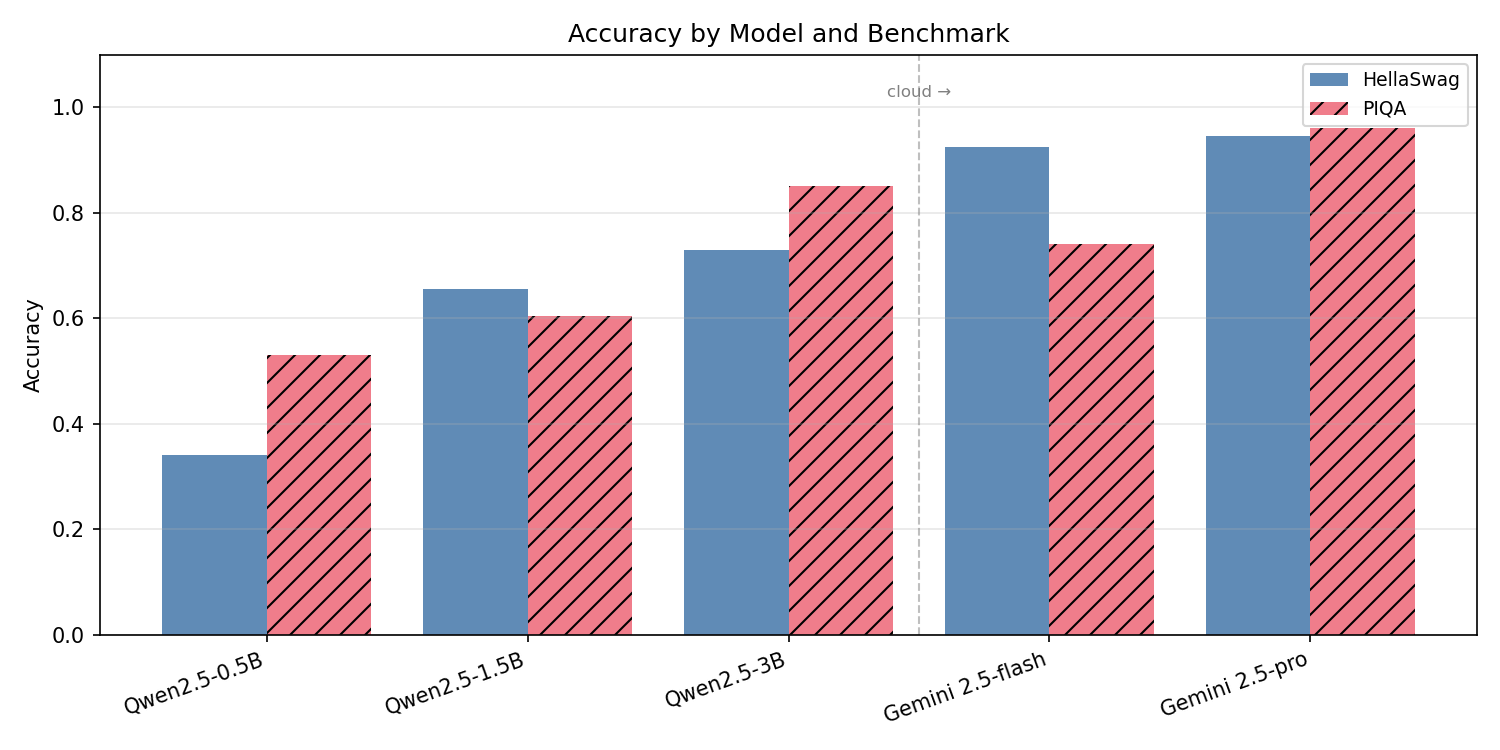
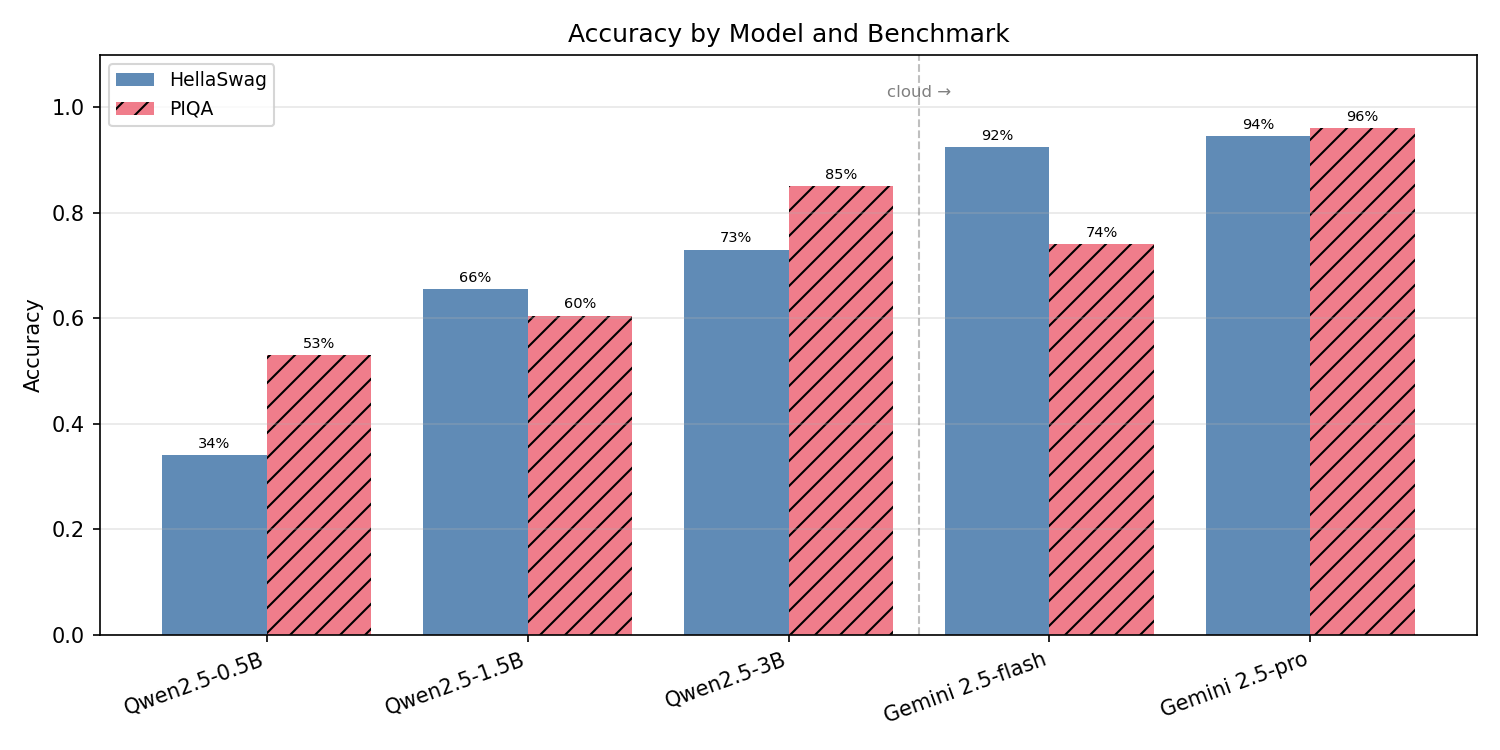
Improve graphs

diff --git a/src/plots.py b/src/plots.py
@@ -82,11 +82,12 @@ def plot_accuracy(df: pd.DataFrame, out_dir: Path) -> Path:
             continue
         vals = [float(acc.loc[m, bm]) if m in acc.index else float("nan")
                 for m in all_models]
-        ax.bar(
+        bars = ax.bar(
             x + offsets[i], vals, width,
             label=BENCH_LABELS[bm],
             color=bench_colors[bm], hatch=bench_hatches[bm], alpha=0.85,
         )
+        ax.bar_label(bars, fmt=lambda v: f"{v:.0%}", fontsize=7, padding=2)
 
     # Vertical divider between local and cloud
     if local_order and cloud_order:
@@ -159,20 +160,20 @@ def plot_accuracy_vs_latency(df: pd.DataFrame, out_dir: Path) -> Path:
 # Plot 3 — Energy per query (estimated), one bar per model
 # ---------------------------------------------------------------------------
 
-def plot_energy(df: pd.DataFrame, out_dir: Path) -> Path:
+def plot_co2(df: pd.DataFrame, out_dir: Path) -> Path:
     agg = (
-        df.groupby(["model", "model_type"])["energy_kwh_per_query"]
+        df.groupby(["model", "model_type"])["emissions_g_per_query"]
         .mean()
         .reset_index()
     )
-    agg = agg[agg["energy_kwh_per_query"].apply(
-        lambda v: not (v != v) and not math.isnan(float(v))  # drop NaN
+    agg = agg[agg["emissions_g_per_query"].apply(
+        lambda v: not math.isnan(float(v))
     )].copy()
 
     if agg.empty:
         fig, ax = plt.subplots(figsize=(8, 4))
-        ax.set_title("Energy per query (estimated) — no data yet")
-        path = out_dir / "plot3_energy.png"
+        ax.set_title("CO2 per query (estimated) — no data yet")
+        path = out_dir / "plot3_co2.png"
         fig.savefig(path, dpi=150)
         plt.close(fig)
         return path
@@ -186,16 +187,17 @@ def plot_energy(df: pd.DataFrame, out_dir: Path) -> Path:
     order = [m for m in local_order if m in agg["model"].values] + \
             [m for m in cloud_order if m not in local_order]
 
-    agg = agg.set_index("model").loc[order].reset_index()
-    labels    = [_short(m) for m in agg["model"]]
-    colors    = [_color(m) for m in agg["model"]]
-    energy_j  = agg["energy_kwh_per_query"] * 3_600_000  # kWh → J
+    agg    = agg.set_index("model").loc[order].reset_index()
+    labels = [_short(m) for m in agg["model"]]
+    colors = [_color(m) for m in agg["model"]]
+    co2_mg = agg["emissions_g_per_query"] * 1000  # g → mg
 
     fig, ax = plt.subplots(figsize=(8, 4))
-    ax.bar(labels, energy_j, color=colors, alpha=0.85, edgecolor="white")
+    bars = ax.bar(labels, co2_mg, color=colors, alpha=0.85, edgecolor="white")
+    ax.bar_label(bars, fmt=lambda v: f"{v:.2f} mg", fontsize=7, padding=3)
     ax.set_yscale("log")
-    ax.set_ylabel("Energy per query (J, estimated — log scale)")
-    ax.set_title("Energy per Query by Model (estimated)")
+    ax.set_ylabel("CO2 per query (mg, estimated — log scale)")
+    ax.set_title("CO2 Emissions per Query by Model (estimated)")
     ax.set_xticklabels(labels, rotation=15, ha="right")
     ax.grid(axis="y", alpha=0.3)
 
@@ -203,7 +205,7 @@ def plot_energy(df: pd.DataFrame, out_dir: Path) -> Path:
     ax.legend(handles=handles, fontsize=8)
     fig.tight_layout()
 
-    path = out_dir / "plot3_energy.png"
+    path = out_dir / "plot3_co2.png"
     fig.savefig(path, dpi=150)
     plt.close(fig)
     return path
@@ -287,6 +289,6 @@ def generate_all(
     return [
         plot_accuracy(df, PLOTS_DIR),
         plot_accuracy_vs_latency(df, PLOTS_DIR),
-        plot_energy(df, PLOTS_DIR),
+        plot_co2(df, PLOTS_DIR),
         plot_accuracy_vs_cost(df, PLOTS_DIR, electricity_rate),
     ]

diff --git a/src/subset.py b/src/subset.py
@@ -57,14 +57,14 @@ def _fmt_hellaswag(ex: dict) -> dict[str, Any]:
     ctx     = ex.get("ctx", "")
     label   = ex.get("activity_label", "")
     context = f"{label}: {_preprocess_hellaswag(ctx)}" if label else _preprocess_hellaswag(ctx)
-    choices = [" " + _preprocess_hellaswag(e) for e in ex["endings"]]
+    choices = [_preprocess_hellaswag(e) for e in ex["endings"]]
     gold    = int(ex["label"])
     return {"context": context, "choices": choices, "gold": gold}
 
 
 def _fmt_piqa(ex: dict) -> dict[str, Any]:
     context = f"Question: {ex['goal']}\nAnswer:"
-    choices = [" " + ex["sol1"], " " + ex["sol2"]]
+    choices = [ex["sol1"], ex["sol2"]]
     gold    = int(ex["label"])
     return {"context": context, "choices": choices, "gold": gold}
 